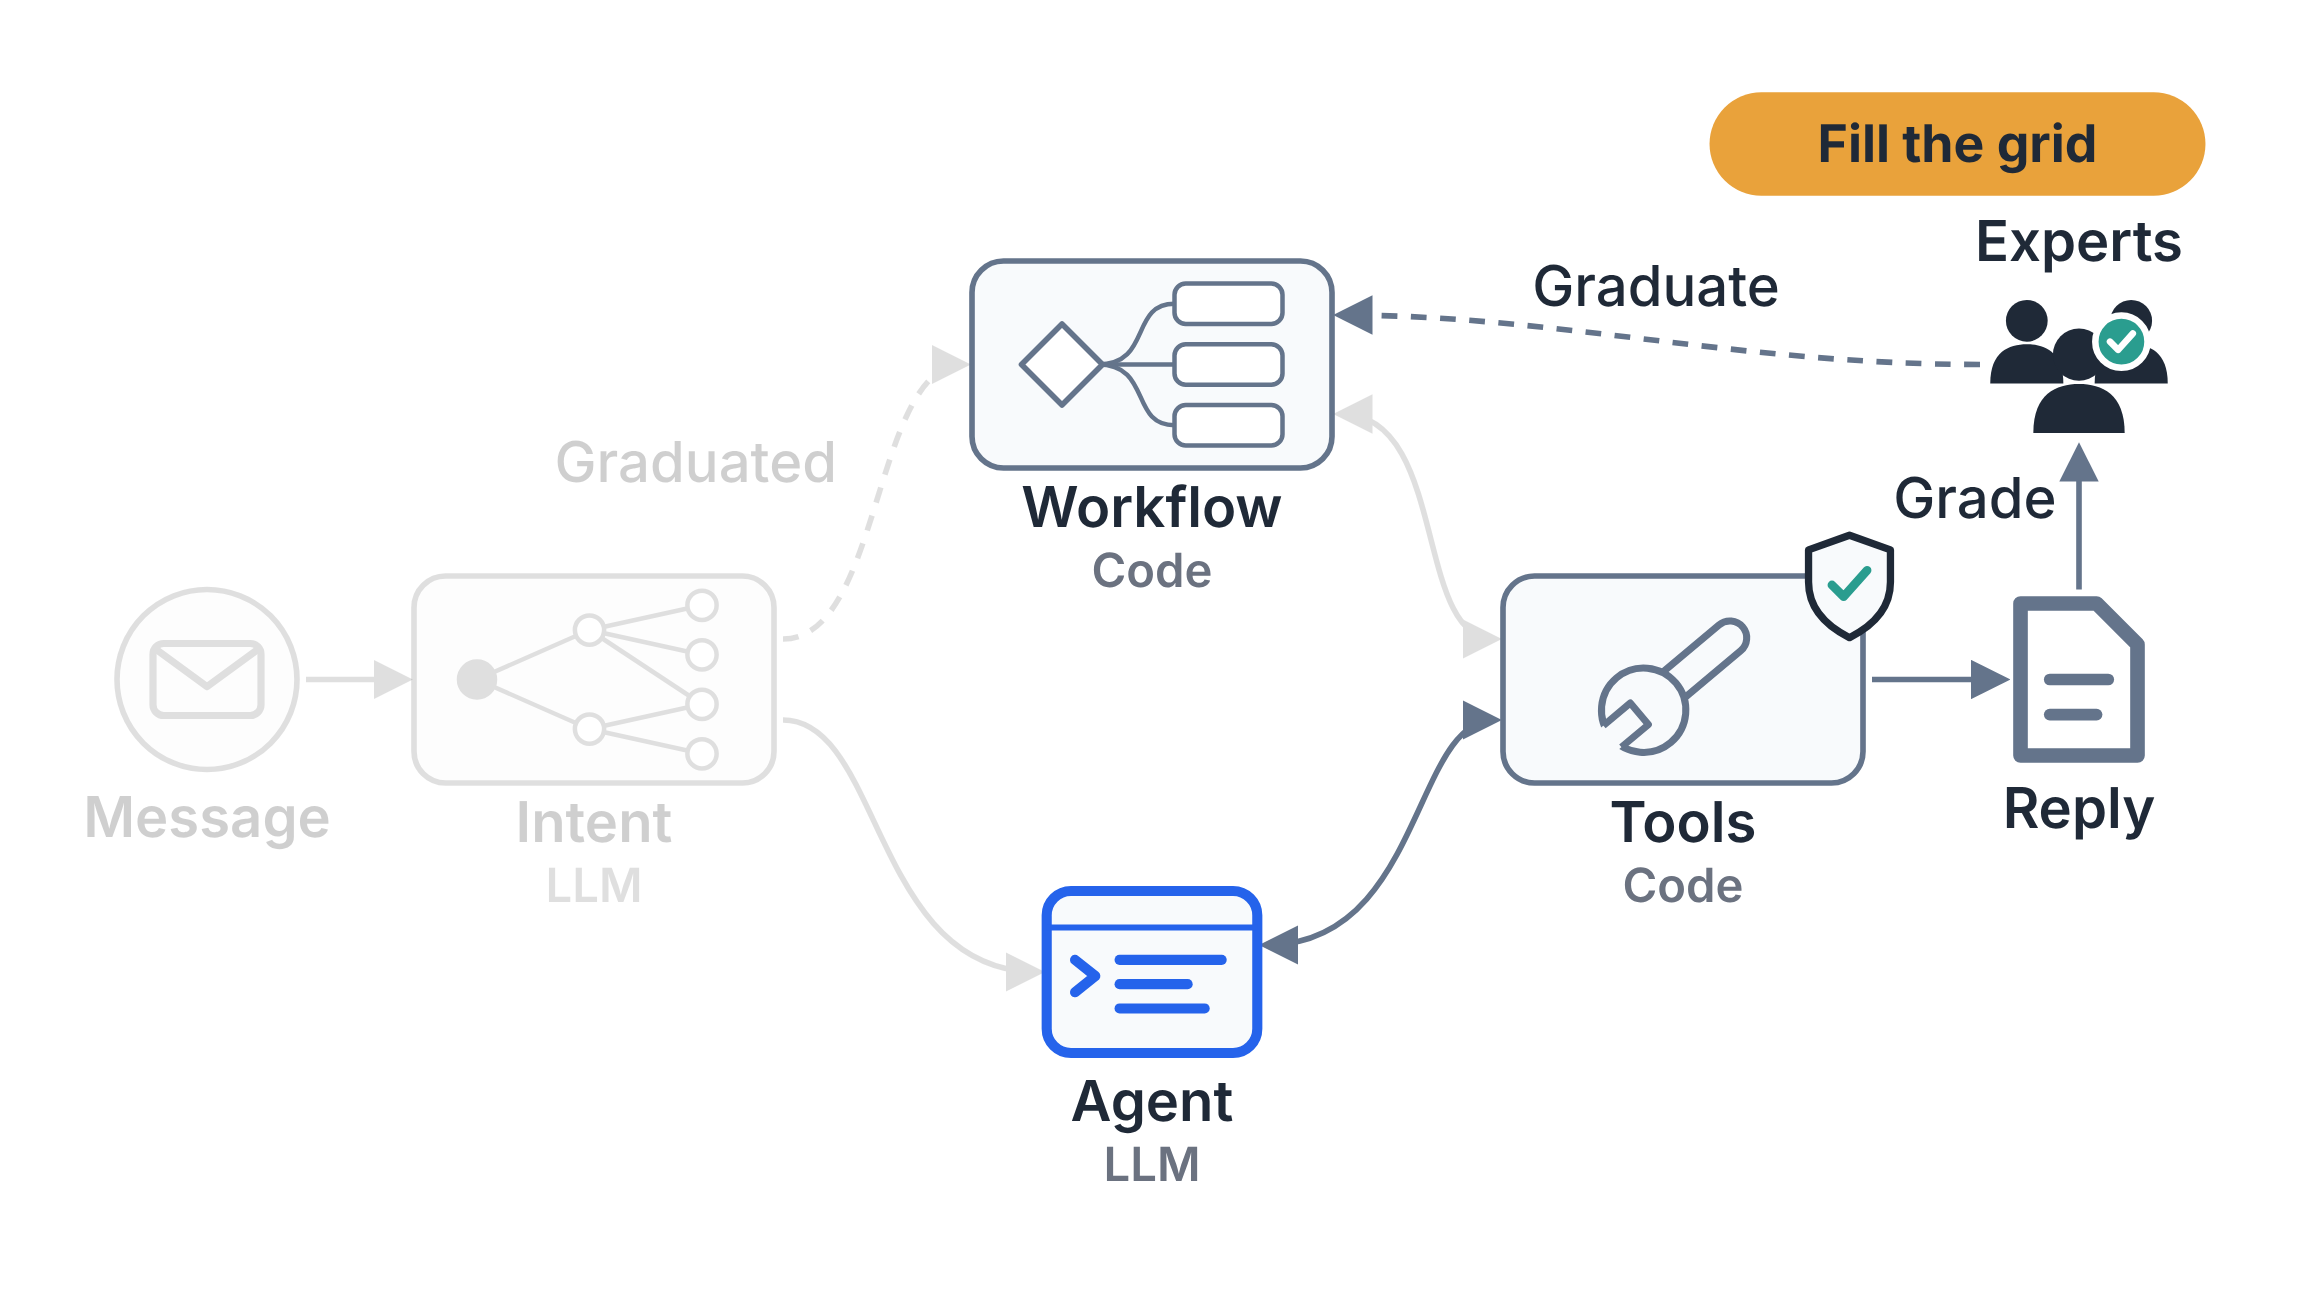
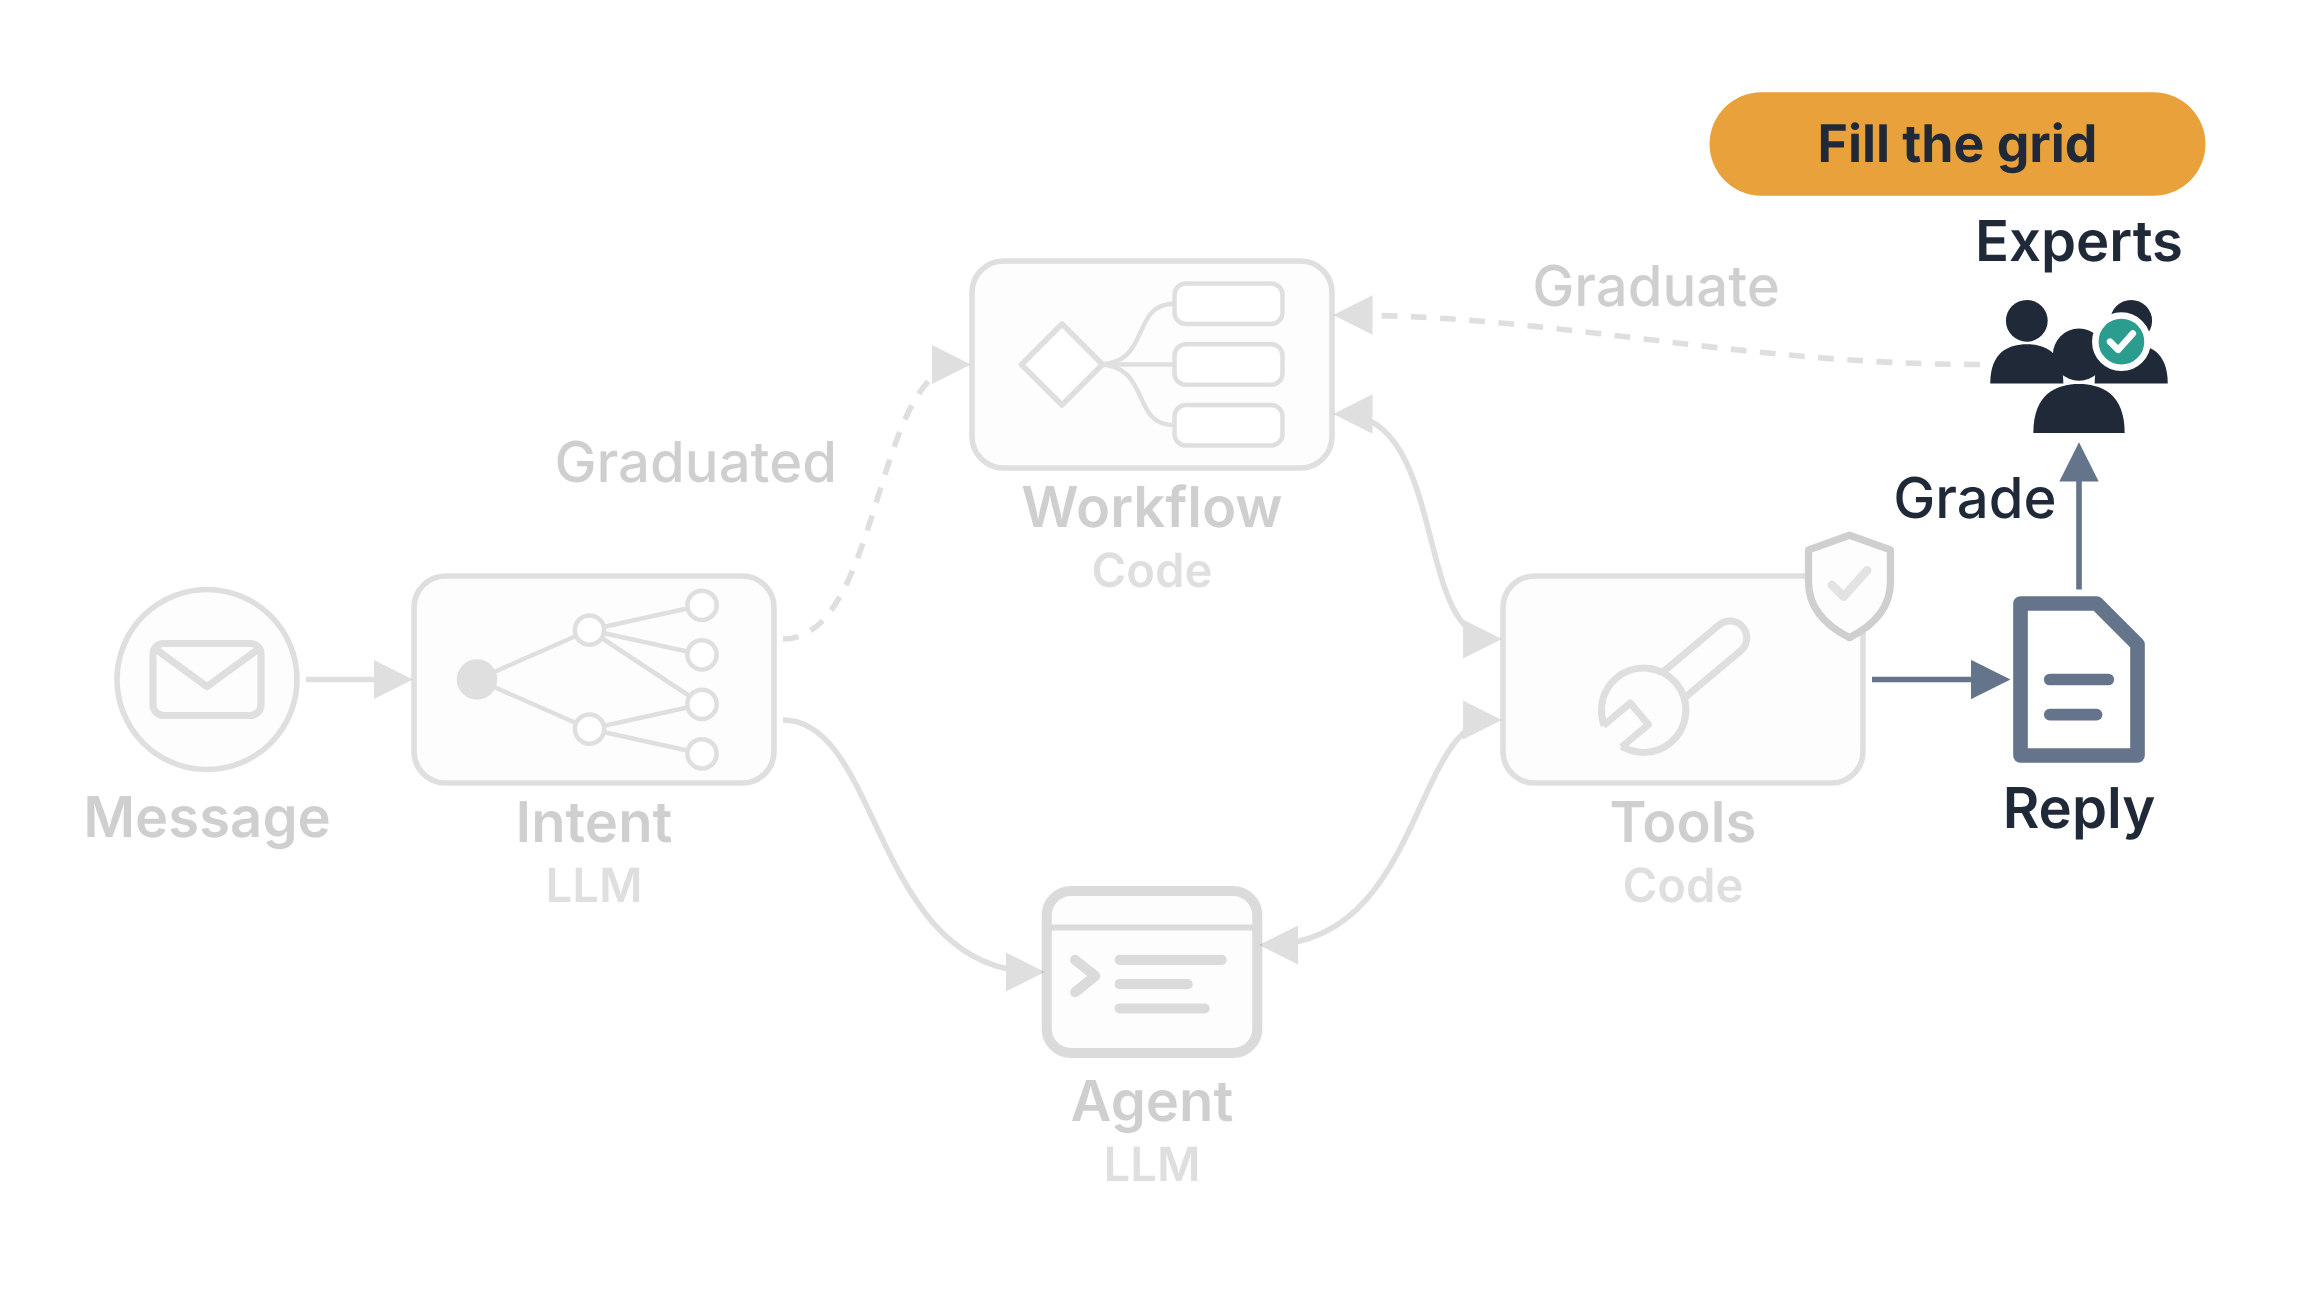
Pair Workflow or Agent's fallback and next-time maps, and trim figure text
The two maps now light the same routes with the dashes swapped, the last
map lights only the experts' grading, alt texts describe the picture
instead of repeating the prose, the unlock tool labels its call once, and
the grid row says Account locked like the rest of the post.

Claude-Session: https://claude.ai/code/session_018UCML1Ku2mTj1EFmTaWVos

diff --git a/src/components/DecisionMap.tsx b/src/components/DecisionMap.tsx
@@ -41,8 +41,9 @@ export const PRESETS = {
     focus: [],
     guard: true,
     description:
-      'The system as one map: a customer message goes to intent recognition, an LLM call, which routes it either to a workflow in code or to an agent that follows the bank’s policies. Both act only through the same tools, which are code and hold the rules that must never be broken, shown as a shield. The tools send the reply, and experts grade every reply; their grades feed back into the workflow.',
+      'The system as one map: a message goes to intent recognition, an LLM call, which routes it to a workflow in code or to an agent. Both act through the same tools, code with a shield for the rules they hold, which send the reply; experts grade it and their grades feed back into the workflow.',
   },
+
   'agent-first': {
     focus: ['message', 'direct', 'agent', 'agentTools', 'tools', 'send', 'reply'],
     direct: true,
@@ -64,43 +65,46 @@ export const PRESETS = {
     default: 'code',
     tags: [{ on: 'workflow', text: 'Grows' }],
     small: true,
-    description:
-      'Highlighted: the workflow, which grows a new branch each round of the experts’ feedback. It needs a branch for every request on every account state.',
+    description: 'Highlighted: the workflow, which grows a new branch each round of the experts’ feedback.',
   },
+
+  // A pair with next-time: the same parts lit, the dashes swapped, the pill moved.
   fallback: {
-    focus: ['intent', 'known', 'workflow', 'other', 'agent', 'reply', 'grade', 'experts'],
+    focus: ['intent', 'known', 'other', 'workflow', 'agent'],
     default: 'code',
-    tags: [{ on: 'workflow', text: 'Default' }],
+    tags: [{ on: 'agent', text: 'Leftovers' }],
     small: true,
     description:
-      'Highlighted: code is the default; only requests the tree doesn’t recognise land in an Other leaf and go, by the dashed route, to the fallback agent. The experts grade every reply.',
+      'Highlighted: intent recognition sends known requests to the workflow, the default, and the rest by the dashed Other route to the agent.',
   },
+
   guards: {
     focus: ['tools', 'workflowTools', 'agentTools', 'workflow', 'agent'],
     guard: true,
     tags: [{ on: 'tools', text: 'Must hold' }],
     small: true,
-    description:
-      'Highlighted: the tools, with a rule inside them, and both routes into them: whether the workflow or the agent calls a tool, the rule holds. Anything a single mistake would make an incident is a rule and goes here; the rest is policy, for the agent to follow.',
+    description: 'Highlighted: the tools, with a shield for the rule inside them, and the calls into them from both the workflow and the agent.',
   },
-  // The end state, full size and all of it: the overview's parts, with the default swapped.
+
   'next-time': {
-    focus: [],
+    focus: ['intent', 'known', 'other', 'workflow', 'agent', 'feedback', 'experts'],
     default: 'agent',
     guard: true,
     tags: [{ on: 'agent', text: 'Default' }],
+    small: true,
     description:
-      'Next time: the agent is the default route, following the bank’s policies, and the rules stay in the tools on both routes. A request type takes the dashed route to a workflow in code only once it graduates: the experts’ grades show it is common and the agent gets it wrong, or its action can’t be undone.',
+      'Highlighted: the routing next time. The agent is the default route; a request type takes the dashed route to the workflow only once the experts’ feedback graduates it.',
   },
+
   start: {
-    focus: ['experts', 'grade', 'feedback', 'workflow', 'agent', 'agentTools', 'tools', 'send', 'reply'],
+    focus: ['send', 'reply', 'grade', 'experts'],
     default: 'agent',
     guard: true,
     tags: [{ on: 'experts', text: 'Fill the grid' }],
     small: true,
-    description:
-      'Highlighted: the experts, grading the agent’s replies from the first week. Their grades are how the bank’s unwritten policy gets written down, and they decide which request types graduate into a workflow in code: common ones the agent gets wrong. The rules stay in the tools.',
+    description: 'Highlighted: the experts, grading every reply from the first week.',
   },
+
 } satisfies Record<string, Preset>;
 
 export type PresetName = keyof typeof PRESETS;

diff --git a/src/components/DecisionFigures.tsx b/src/components/DecisionFigures.tsx
@@ -45,7 +45,7 @@ const Text = ({ x, y, anchor = 'middle', size, weight = 600, muted, children }: 
 );
 
 const STATES = ['No flags', 'Flagged', 'Closed'];
-const INTENTS = ['Locked account', 'Missing payment', 'Change of details'];
+const INTENTS = ['Account locked', 'Missing payment', 'Change of details'];
 
 /** The cells the tree decided, by intent and state: both for a locked account. Every other cell is a rule nobody has written. */
 const DECIDED: Record<string, { text: string; escalate?: boolean; alex?: boolean }> = {
@@ -54,7 +54,7 @@ const DECIDED: Record<string, { text: string; escalate?: boolean; alex?: boolean
 };
 
 const GridDescription =
-  'A grid of three intents, Locked account, Missing payment and Change of details, against three account states, No flags, Flagged and Closed. Two cells are decided, both for a locked account: with no flags it gets the unlock steps, which is Alex’s cell, and flagged it is escalated. The other seven cells are question marks.';
+  'A grid of three intents, Account locked, Missing payment and Change of details, against three account states, No flags, Flagged and Closed. Two cells are decided, both for Account locked: with no flags it gets the unlock steps, which is Alex’s cell, and flagged it is escalated. The other seven cells are question marks.';
 
 interface GridLayout {
   width: number;
@@ -234,7 +234,8 @@ interface UnlockLayout {
   names: { workflow: Label; agent: Label };
   /** Each caller's call into the tool, ending on the question; Alex's comes from the agent. */
   calls: { workflow: string; agent: string };
-  callLabels: Label[];
+  /** One label where the two calls meet: both send the same request. */
+  callLabel: Label;
   tool: { x: number; y: number; w: number; h: number };
   toolLabel: Label;
   guard: Point;
@@ -256,10 +257,7 @@ const UNLOCK_WIDE: UnlockLayout = {
     workflow: 'M124,84 C210,84 226,138 288,138',
     agent: 'M104,234 C210,234 226,162 288,162',
   },
-  callLabels: [
-    { x: 184, y: 66 },
-    { x: 176, y: 262 },
-  ],
+  callLabel: { x: 190, y: 158 },
   tool: { x: 244, y: 16, w: 358, h: 304 },
   toolLabel: { x: 264, y: 52, anchor: 'start' },
   guard: { x: 590, y: 24 },
@@ -280,13 +278,10 @@ const UNLOCK_TALL: UnlockLayout = {
   agent: { x: 350, y: 52 },
   names: { workflow: { x: 90, y: 112 }, agent: { x: 350, y: 112 } },
   calls: {
-    workflow: 'M150,52 C192,52 198,110 198,274',
-    agent: 'M310,52 C248,52 242,110 242,274',
+    workflow: 'M150,52 C162,52 162,120 162,294',
+    agent: 'M310,52 C278,52 278,120 278,294',
   },
-  callLabels: [
-    { x: 186, y: 182, anchor: 'end' },
-    { x: 254, y: 182, anchor: 'start' },
-  ],
+  callLabel: { x: 220, y: 182 },
   tool: { x: 4, y: 202, w: 432, h: 278 },
   toolLabel: { x: 22, y: 236, anchor: 'start' },
   guard: { x: 420, y: 210 },
@@ -364,11 +359,9 @@ function UnlockSvg({ layout, className }: { layout: UnlockLayout; className: str
 
       <path d={layout.calls.workflow} {...line} />
       <path d={layout.calls.agent} {...alex} />
-      {layout.callLabels.map((l) => (
-        <Text key={l.y} {...l} size={16} muted>
-          Send unlock
-        </Text>
-      ))}
+      <Text {...layout.callLabel} size={16} muted>
+        Send unlock
+      </Text>
 
       <path d={layout.answers.yes} {...line} />
       <path d={layout.answers.no} {...alex} />

diff --git a/tests/decision-map.spec.ts b/tests/decision-map.spec.ts
@@ -32,7 +32,10 @@ test.describe('Figures in Workflow or Agent', () => {
     const start = page.locator('figure.decision-map[data-confluence-png$="/map-start.png"] svg:visible');
     await expect(start.getByText('Fill the grid')).toBeVisible();
 
-    // Next time, the default moves to the agent and a request type graduates into code.
+    // Next time mirrors the leftovers: the default moves to the agent and a request type graduates into code.
+    const fallback = page.locator('figure.decision-map[data-confluence-png$="/map-fallback.png"] svg:visible');
+    await expect(fallback.getByText('Leftovers')).toBeVisible();
+    await expect(fallback.getByText('Other', { exact: true })).toBeVisible();
     // Both layouts carry the labels; only the one that fits the width is shown.
     const next = page.locator('figure.decision-map[data-confluence-png$="/map-next-time.png"] svg:visible');
     await expect(next.getByText('Default')).toBeVisible();
